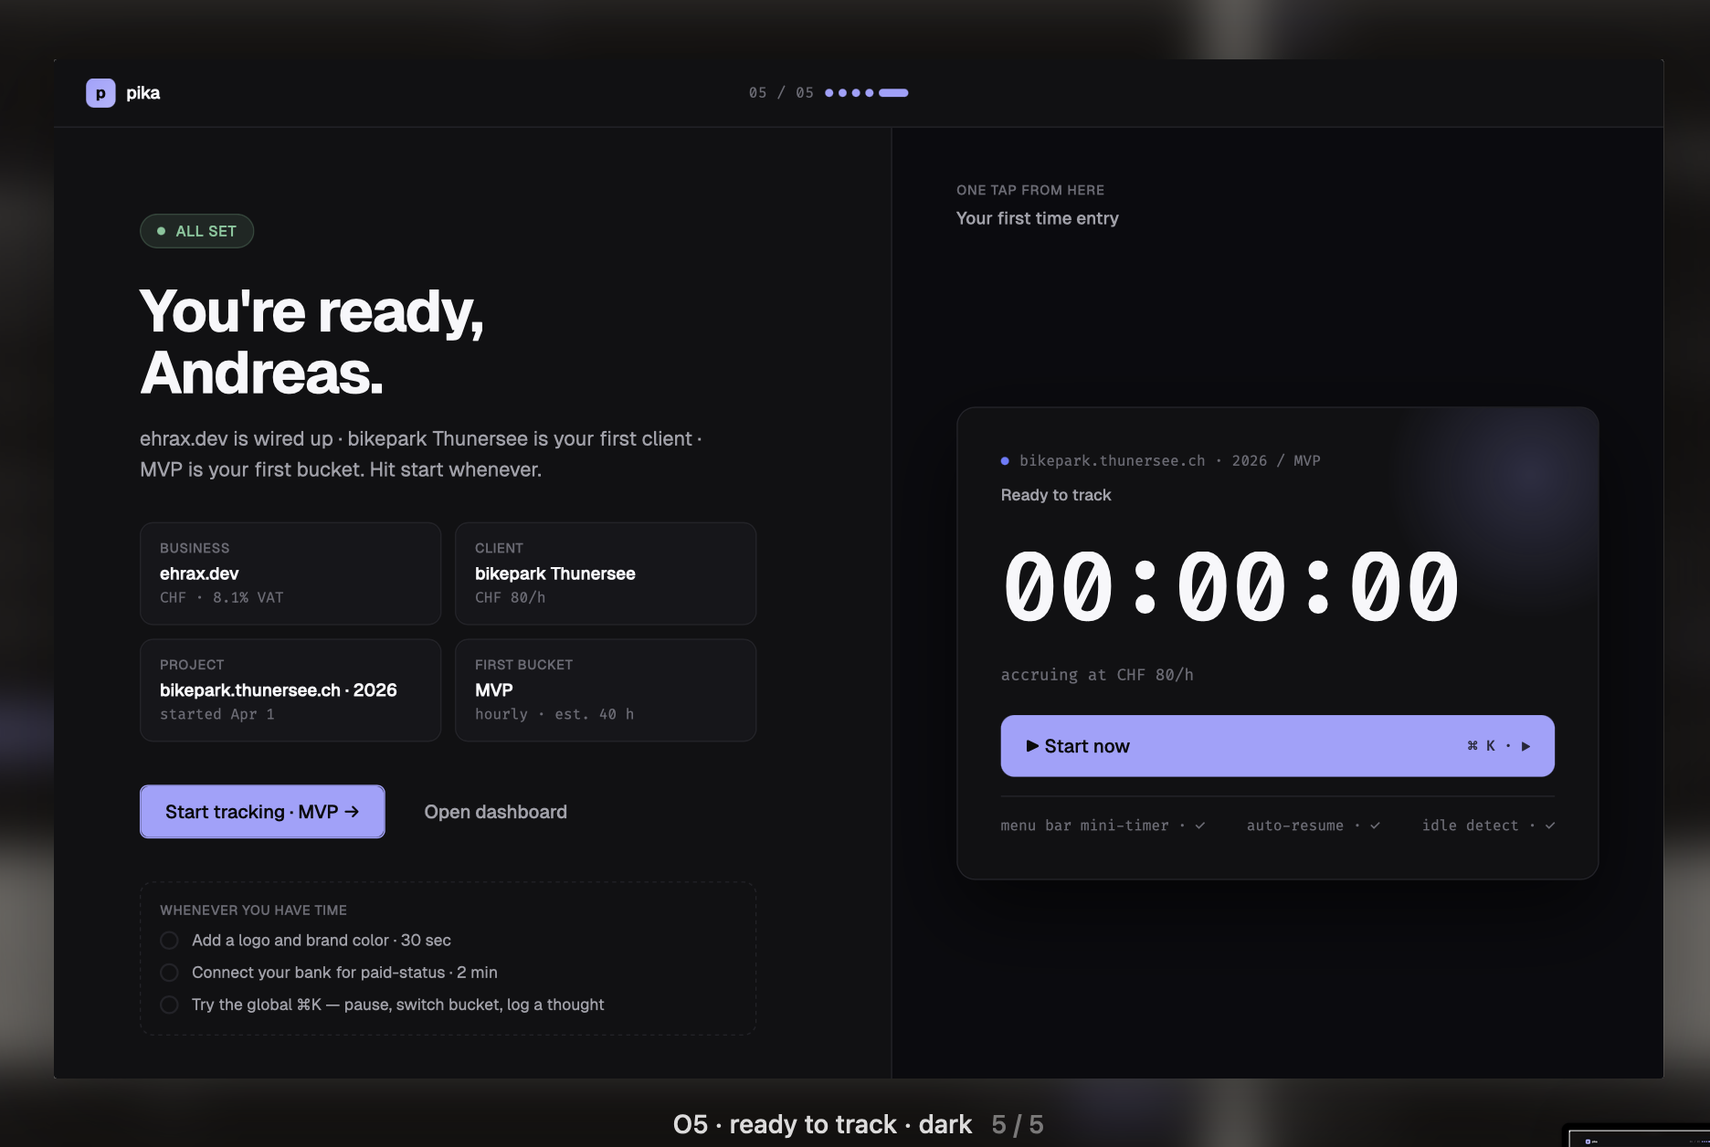
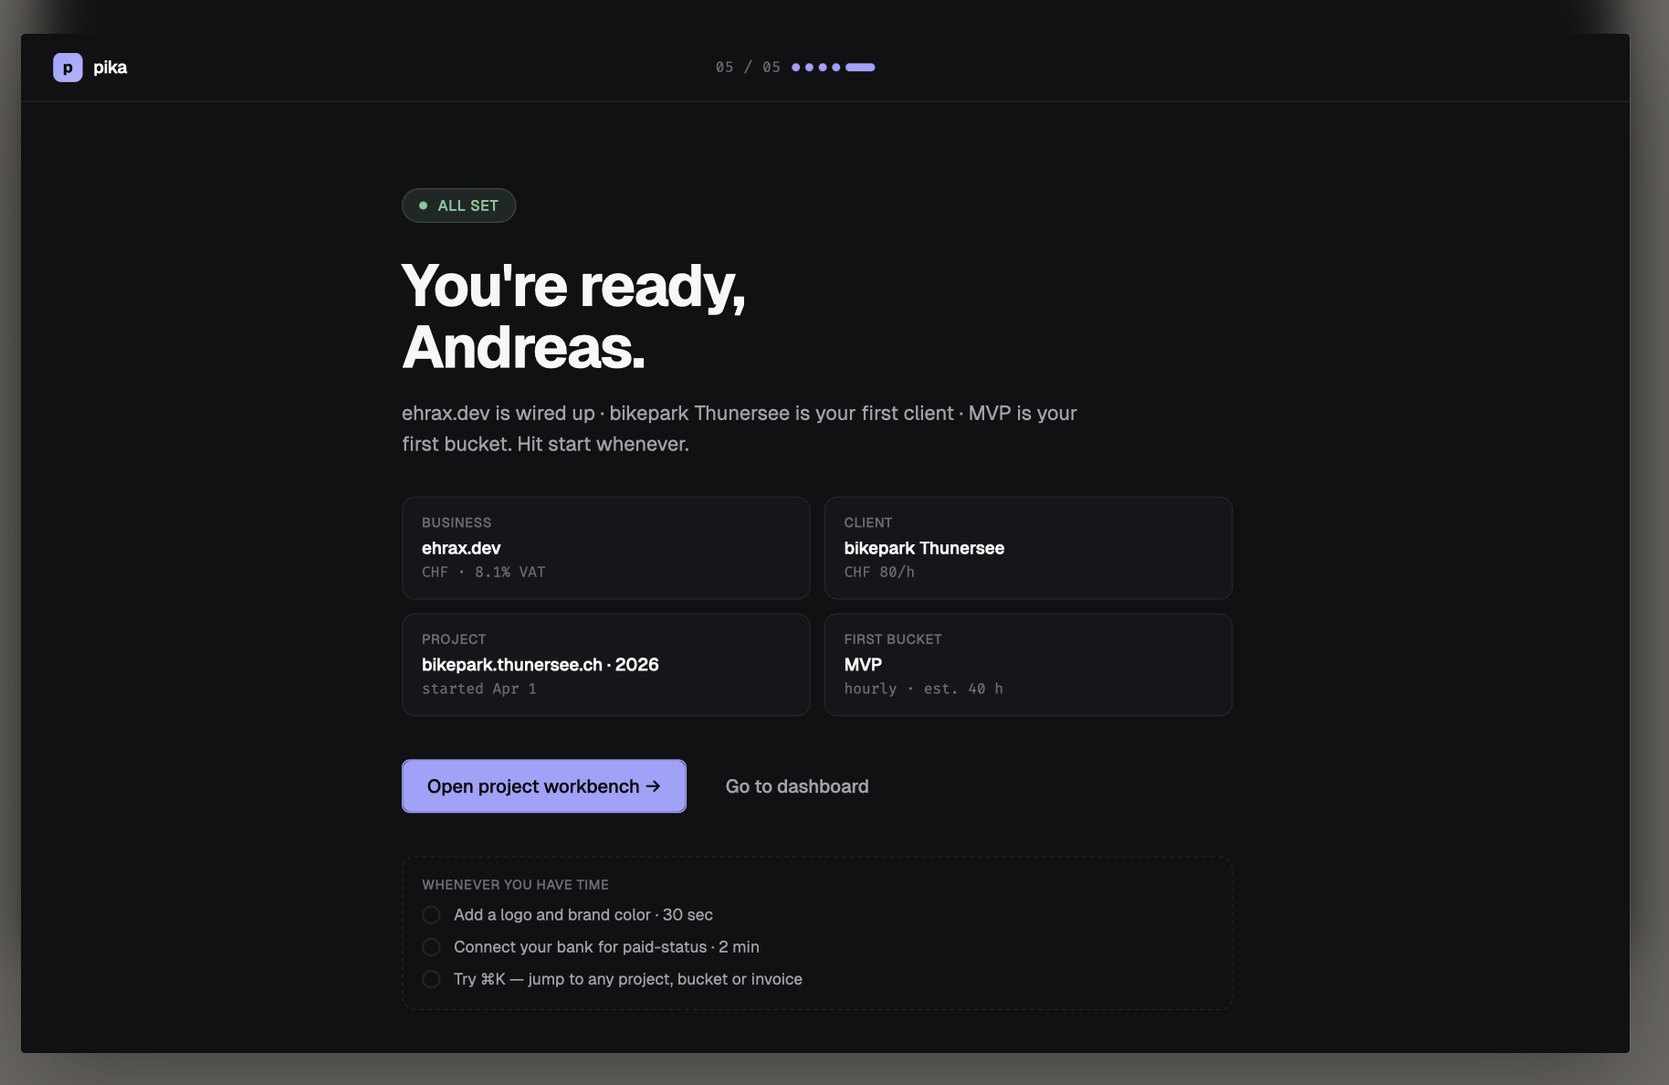
chore: pr fix

diff --git a/docs/prd-onboarding.md b/docs/prd-onboarding.md
@@ -1,0 +1,136 @@
+# PRD: First-Run Onboarding
+
+## Problem Statement
+
+Freelancers opening Billbi for the first time need a calm way to understand the app's Workspace model and optionally enter the basic information that makes future invoicing, clients, projects, and buckets feel grounded. Today the app can expose an empty workspace without explaining what the user should set up first, while invoice-critical details still need to be protected later when the user finalizes an Invoice.
+
+## Solution
+
+Build a skippable first-run onboarding flow shown as a full-window replacement before the normal app shell. The flow follows the high-fidelity onboarding designs in `docs/design-onboarding`, translated to native macOS SwiftUI and Billbi product copy.
+
+Onboarding uses five visual steps: welcome, business setup, first client, first project with initial bucket, and ready summary. The flow can be skipped from any screen; skipping immediately marks onboarding complete for the Workspace and enters the app. Continue is always available and advances through the flow, but each step only saves meaningful entered data. Empty optional steps do not create placeholder records.
+
+The setup ladder is progressive. A non-empty business name enables client setup. A non-empty client name creates a Client and enables project setup. A non-empty project name with a saved Client creates a Project and its initial Bucket, using `General` as the default bucket name when the user leaves the bucket blank. The ready screen summarizes only the setup data that actually exists and routes the user either to the created project workbench or to the dashboard.
+
+Onboarding completion is stored in the Workspace data model, following ADR 0003, so completion follows workspace restore or sync. A debug-only menu bar action may reset only the completion flag for development and QA.
+
+## User Stories
+
+1. As a freelancer, I want Billbi to greet me with a focused first-run setup, so that I understand what the app helps me set up.
+2. As a freelancer, I want onboarding to use Billbi branding, so that prototype names do not leak into the shipped app.
+3. As a freelancer, I want onboarding to appear as the whole main window, so that I can focus on setup without the normal app shell competing for attention.
+4. As a freelancer, I want native macOS window controls to remain available, so that the setup flow still feels like a Mac app.
+5. As a freelancer, I want to skip setup from any onboarding screen, so that I can enter the app even when I do not have details ready.
+6. As a freelancer, I want skipping setup to remember my choice, so that onboarding does not automatically appear again for the same Workspace.
+7. As a freelancer, I want setup to run only once per Workspace, so that first-run guidance does not become recurring friction.
+8. As a freelancer, I want any already-saved setup data to be kept when I skip later, so that partial setup work is not lost.
+9. As a freelancer, I want Continue to always be available, so that I can click through the flow without being blocked by fields I do not know yet.
+10. As a freelancer, I want empty optional steps not to create fake clients, projects, or buckets, so that my Workspace stays clean.
+11. As a freelancer, I want completed onboarding steps to save immediately, so that quitting or skipping later does not discard useful setup data.
+12. As a freelancer, I want the welcome screen to explain the setup chain, so that I understand the relationship between business details, clients, projects, and buckets.
+13. As a freelancer, I want the welcome screen to be visual step one, so that the progress indicator matches the designed five-step flow.
+14. As a freelancer, I want business setup to collect my basic business identity, so that Billbi has a grounded Workspace profile.
+15. As a freelancer, I want business name to be enough to start setup, so that I can proceed even if I do not have every invoice detail ready.
+16. As a freelancer, I want business email, address, currency, default hourly rate, and payment terms to be easy to enter, so that later invoices and projects start with sensible defaults.
+17. As a freelancer, I want legal name, tax ID or VAT number, phone, website, and payment details to be optional, so that missing details do not block first-run setup.
+18. As a freelancer, I want Billbi not to force country-specific tax setup during onboarding, so that the first-run flow stays globally approachable.
+19. As a freelancer, I want the business step to show a live invoice header preview, so that I can see how my business identity will appear on invoices.
+20. As a freelancer, I want the invoice header preview to update as I type, so that the effect of each field feels immediate.
+21. As a freelancer, I want the preview invoice number to be clearly fake, so that I do not confuse onboarding preview copy with real invoice numbering.
+22. As a freelancer, I want invoice numbering setup to remain outside onboarding for now, so that first-run setup stays lightweight.
+23. As a freelancer, I want the first-client step to unlock only after I have started business setup, so that the setup chain remains understandable.
+24. As a freelancer, I want client name to be enough to create a Client, so that I can set up work before I know every billing detail.
+25. As a freelancer, I want client email, billing address, contact person, phone, VAT number, and rate override to be optional during onboarding, so that I can complete them later.
+26. As a freelancer, I want the first-client step to show a lightweight client-list preview, so that I can see where the Client will live in the app.
+27. As a freelancer, I want the first-client preview to use draft values before saving, so that I can inspect the result before Continue commits it.
+28. As a freelancer, I want the first-project step to unlock only after a Client exists, so that Projects remain tied to Clients.
+29. As a freelancer, I want project name to be enough to create a Project when a Client exists, so that setup does not require detailed planning.
+30. As a freelancer, I want the first-project step to create an initial Bucket too, so that the Project is immediately usable for tracking and invoicing.
+31. As a freelancer, I want Billbi to default the initial Bucket to General when I leave its name blank, so that the Project can still be usable without inventing a work-package name immediately.
+32. As a freelancer, I want project currency and hourly rate to inherit from business defaults where possible, so that I do not repeat setup work.
+33. As a freelancer, I want the project step to preview both the Project and initial Bucket, so that I understand the Project -> Bucket relationship.
+34. As a freelancer, I want the ready screen to summarize only what I actually set up, so that the app does not imply records were created when I skipped or left steps blank.
+35. As a freelancer, I want the ready screen to show business, client, project, and bucket cards only when those records or data exist, so that the summary stays truthful.
+36. As a freelancer, I want the ready screen to route me to the project workbench when a Project and Bucket exist, so that I can continue from the setup I just created.
+37. As a freelancer, I want the ready screen to route me to the dashboard when no Project and Bucket exist, so that I land in the most honest general destination.
+38. As a freelancer, I want ready-screen tips to adapt to skipped setup data, so that the next suggestions match what I still need to do.
+39. As a freelancer, I want tips to mention only features that exist or are part of this implementation, so that onboarding does not advertise unavailable settings.
+40. As a freelancer, I want onboarding to avoid per-step skip buttons, so that I do not have to choose between too many exits.
+41. As a freelancer, I want Back and Continue to be the main navigation controls, so that the flow feels simple and predictable.
+42. As a freelancer, I want Return to trigger Continue where it does not conflict with text entry, so that keyboard use feels natural.
+43. As a freelancer, I do not want Escape to skip setup, so that I do not permanently dismiss onboarding by accident.
+44. As a freelancer, I want reopening the app mid-onboarding to restart at welcome, so that the flow stays simple.
+45. As a freelancer, I want already-saved data to prefill when onboarding restarts, so that I do not retype setup information.
+46. As a freelancer, I want invoice finalization to block later if required sender or recipient details are missing, so that lightweight onboarding does not let me send broken invoices.
+47. As a freelancer, I want missing tax identifiers not to block onboarding, so that I can set up Billbi before knowing my final tax configuration.
+48. As a developer, I want onboarding completion stored in Workspace data, so that restore and sync behavior are consistent.
+49. As a developer, I want a debug-only menu bar action to reset onboarding completion, so that I can test first-run flows repeatedly.
+50. As a developer, I want debug reset to preserve business profile data, Clients, Projects, Buckets, Invoices, and other records, so that testing onboarding does not destroy workspace data.
+51. As a developer, I want onboarding forms to prefill from existing Workspace data after a debug reset, so that reset testing is fast and realistic.
+52. As a developer, I want onboarding state transitions and save thresholds to be testable without UI tests, so that the behavior remains stable as the SwiftUI design evolves.
+
+## Implementation Decisions
+
+- Add Workspace-scoped onboarding completion state, following ADR 0003.
+- Extend persistence, projections, archive/restore shape, and seed/default Workspace construction so onboarding completion survives normal Workspace loading, restoring, and syncing.
+- Add app-facing WorkspaceStore commands for completing onboarding, resetting onboarding completion in debug builds, and saving onboarding step data with relaxed thresholds.
+- Do not reuse the existing strict business profile update command directly for onboarding unless it is refactored to support partial setup safely. Current settings-style profile validation is stricter than onboarding.
+- Introduce an onboarding flow model as a deep module that owns step progression, unlock rules, save thresholds, ready-screen summary decisions, and contextual CTA decisions.
+- Keep SwiftUI onboarding views presentation-focused. Views should render draft state, previews, controls, and call WorkspaceStore/onboarding-flow commands rather than owning domain decisions.
+- Present onboarding as a full-window replacement before the normal app shell and navigation are shown.
+- Keep normal macOS window controls native while rendering an onboarding-specific top bar with Billbi branding, progress, and Skip setup.
+- Use the designs in `docs/design-onboarding` as high-fidelity wireframes, translated to macOS-native SwiftUI and Billbi copy.
+- Replace all prototype Pika branding in implementation copy with Billbi.
+- Preserve the five visual steps: welcome, business, first client, first project with initial bucket, and ready.
+- Continue always advances. It should save meaningful data when thresholds are met and avoid creating placeholder records when thresholds are not met.
+- Skip setup always persists onboarding completion immediately and enters the app.
+- A non-empty business name unlocks the client step.
+- A non-empty client name creates a Client and unlocks the project step.
+- A non-empty project name with a saved Client creates the Project and its initial Bucket.
+- The initial Bucket default name is General when the user leaves the bucket field blank.
+- Project currency and hourly rate inherit from business defaults when possible.
+- The business step includes a header-only live invoice preview driven by draft values.
+- The header preview uses PREVIEW-001 and does not expose invoice numbering setup.
+- The first-client step includes a lightweight draft-driven client-list preview.
+- The first-project step includes a draft-driven project and initial bucket preview.
+- The ready screen is a summary and handoff, not a live product preview.
+- Ready summary cards render only existing setup data.
+- Ready primary CTA opens the project workbench when a Project and Bucket exist; otherwise it goes to the dashboard.
+- Ready tips adapt to missing setup data and should not mention unavailable features such as brand color selection.
+- Add a debug-only menu command to clear onboarding completion without deleting Workspace records.
+- If the app quits mid-onboarding, do not persist step position. Restart at welcome and prefill from saved Workspace data.
+- Use existing active projection order when prefilling from existing clients or projects; do not introduce special ranking for v1.
+
+## Testing Decisions
+
+- Test external behavior and domain thresholds rather than SwiftUI implementation details.
+- Unit test the onboarding flow model for step progression, unlock rules, save thresholds, skip behavior, ready-summary card decisions, and CTA selection.
+- Unit test WorkspaceStore onboarding commands for saving partial business profile data, creating Clients only when a client name exists, creating Projects and initial Buckets only when prerequisites exist, and avoiding placeholder records.
+- Unit test onboarding completion persistence in Workspace snapshots and normalized persistence.
+- Unit test debug reset behavior to ensure it clears only onboarding completion and preserves business profile data, Clients, Projects, Buckets, Invoices, and Activity.
+- Add archive/restore coverage if the Workspace Archive format changes for onboarding completion.
+- Add focused macOS UI tests or launch checks for first-run presentation, skip entering the app, completed flow entering the app, and debug reset re-showing onboarding.
+- Use existing WorkspaceStore mutation tests, projection tests, archive tests, and UI launch checks as prior art.
+- For visual polish, verify the onboarding screens manually or with screenshots across representative macOS window sizes against the high-fidelity wireframes.
+
+## Out of Scope
+
+- Country-specific tax setup, VAT-status workflows, exemption-note configuration, reverse-charge handling, and per-project tax compliance.
+- Full invoice template selection during onboarding.
+- Real invoice numbering setup during onboarding.
+- Brand color/logo customization during onboarding.
+- Bank connection, paid-status automation, or payment reconciliation setup.
+- Auto-starting a timer or creating a time entry from the ready screen.
+- A production user-facing way to re-run onboarding after completion or skip.
+- Deleting workspace data from the debug onboarding reset.
+- Creating Projects without Clients.
+- Creating placeholder Clients, Projects, or Buckets for empty onboarding steps.
+- Changing the broader invoicing readiness rules beyond ensuring missing invoice-required details can still block invoice finalization later.
+
+## Further Notes
+
+- The source designs live in `docs/design-onboarding` and should be treated as high-fidelity wireframes, not exact web layouts. The implementation should remain native to macOS SwiftUI.
+- The product is Billbi. Pika was an early prototype name and should not appear in shipped onboarding copy.
+- The final ready screen redesign removes the timer preview. It should show setup cards, contextual navigation, and lightweight tips.
+- Swiss and German invoice research informed the decision to keep onboarding globally minimal and defer jurisdiction-specific validation to later configuration.
+- The current project creation path creates a first Bucket as part of Project creation, which aligns with the onboarding decision to create an initial Bucket when a first Project is created.

diff --git a/CONTEXT.md b/CONTEXT.md
@@ -59,6 +59,30 @@
 - The onboarding welcome screen is visual step 1. It introduces the setup flow but does not itself create workspace data.
 - Choosing "Skip setup" from any onboarding screen should mark onboarding done and enter the main app immediately. The final ready screen is shown only when the user reaches the end of the setup flow.
 - Onboarding should avoid separate per-step "skip for now" controls. The flow uses Back, a primary Continue action, and the global Skip setup action. Optional later setup can be skipped only by leaving onboarding through Skip setup.
+- Continue should remain available throughout onboarding. Steps save only meaningful entered data and should not create empty placeholder records. Later dependent forms unlock only when the prerequisite data exists: business details enable client setup, a saved client enables project setup, and project setup creates the initial bucket.
+- For onboarding unlocks, a non-empty business name is enough to treat business details as started and enable client setup. Other business fields may be saved opportunistically but should not be required to progress.
+- For onboarding unlocks, a non-empty client name is enough to create a Client and enable project setup. Client invoice details such as billing address may be completed later, but invoice finalization should block if recipient-required details are missing.
+- For onboarding project setup, a non-empty project name is enough to create the Project when a saved Client exists. The initial Bucket may use a sensible default name when blank, and currency or hourly rate should inherit from business defaults where possible.
+- When onboarding creates an initial Bucket without a user-entered bucket name, the default bucket name should be **General**.
+- The final onboarding screen is a ready summary and handoff, not a product preview. It should show the setup data that actually exists, offer contextual navigation such as opening the created project workbench or going to the dashboard, and include lightweight later tips.
+- The final onboarding summary should only show cards for setup data that actually exists. It should not show placeholder Business, Client, Project, or Bucket cards for skipped or empty steps.
+- On the final onboarding screen, the primary call to action should open the created project workbench when a project and bucket exist; otherwise it should go to the dashboard. A dashboard action may remain secondary when the project workbench is primary.
+- Final onboarding tips should adapt to skipped setup data and only reference features that exist in the app or are in the immediate implementation scope. Prototype ideas such as choosing a base color should be ignored until those settings actually exist.
+- The business onboarding step should include a header-only live invoice preview so users can see how their business identity appears on invoices. Full template selection can be added later when Billbi supports multiple invoice templates.
+- The onboarding invoice header preview should use an obviously fake invoice number such as **PREVIEW-001**. Invoice numbering setup should stay out of onboarding for now and remain governed by existing defaults or Settings.
+- The onboarding invoice header preview should update from the current business-step draft values as the user types. Persisting those values happens when the user continues from the step.
+- The first-client onboarding step should include a lightweight client-list preview driven by the current draft values. The preview teaches where the client will appear without creating the Client until the user continues from the step.
+- The first-project onboarding step should preview both the project and its initial bucket from draft values. Continuing from the step creates the Project and its initial Bucket together when the prerequisites and project name exist.
+- Onboarding completion belongs to the Workspace data model, not local-only app preferences, so completion follows the workspace across restore or sync.
+- Skip setup should immediately persist onboarding completion for the workspace, even when no onboarding form data has been saved.
+- A debug-only menu bar action may reset onboarding completion for development and QA. Normal production users should not see a re-run onboarding action.
+- The debug onboarding reset should only clear onboarding completion. It should not delete business profile data, clients, projects, buckets, invoices, or other workspace records.
+- On first launch for a workspace without onboarding completion, onboarding should appear as a full-window replacement in the main window rather than a sheet or modal over the app.
+- While onboarding is active, the normal app navigation and toolbar should be hidden in favor of an onboarding-specific top bar inside the content. Standard macOS window controls should remain native.
+- Onboarding should support keyboard-friendly progression such as Return for Continue where it does not conflict with text entry. Escape should not trigger Skip setup because skipping permanently completes onboarding for the workspace.
+- If the app quits during onboarding before completion or skip, reopening should restart the onboarding flow at the welcome screen while preserving any workspace data saved by completed steps.
+- Onboarding forms should prefill from existing workspace data when available, including after a debug reset or a mid-flow restart.
+- When prefilling onboarding from existing clients or projects, v1 can use the existing active projection order rather than introducing special ranking.
 - "cost" exists in invoiceable bucket language as a fixed cost that can be billed to a client; use **Expense** for outgoing amount-bearing business costs tracked for profit and tax clarity.
 - "tax document" was considered for generic tax paperwork, but Billbi's near-term scope is tax-relevant **Expenses** such as subscriptions, domains, equipment, and other business running costs.
 - "receipt" and "invoice PDF" both refer to **Expense Evidence** when they prove an outgoing business cost; do not model them as separate top-level records.

diff --git a/docs/adr/0003-store-onboarding-completion-in-workspace.md b/docs/adr/0003-store-onboarding-completion-in-workspace.md
@@ -1,0 +1,3 @@
+# Store Onboarding Completion In The Workspace
+
+Onboarding completion is stored in the Workspace data model instead of local app preferences. This makes first-run completion follow the workspace across restore and sync, at the cost of treating a UI setup flag as workspace state. A debug-only reset may clear the completion flag for development and QA, but normal production users should not see a re-run onboarding action.
